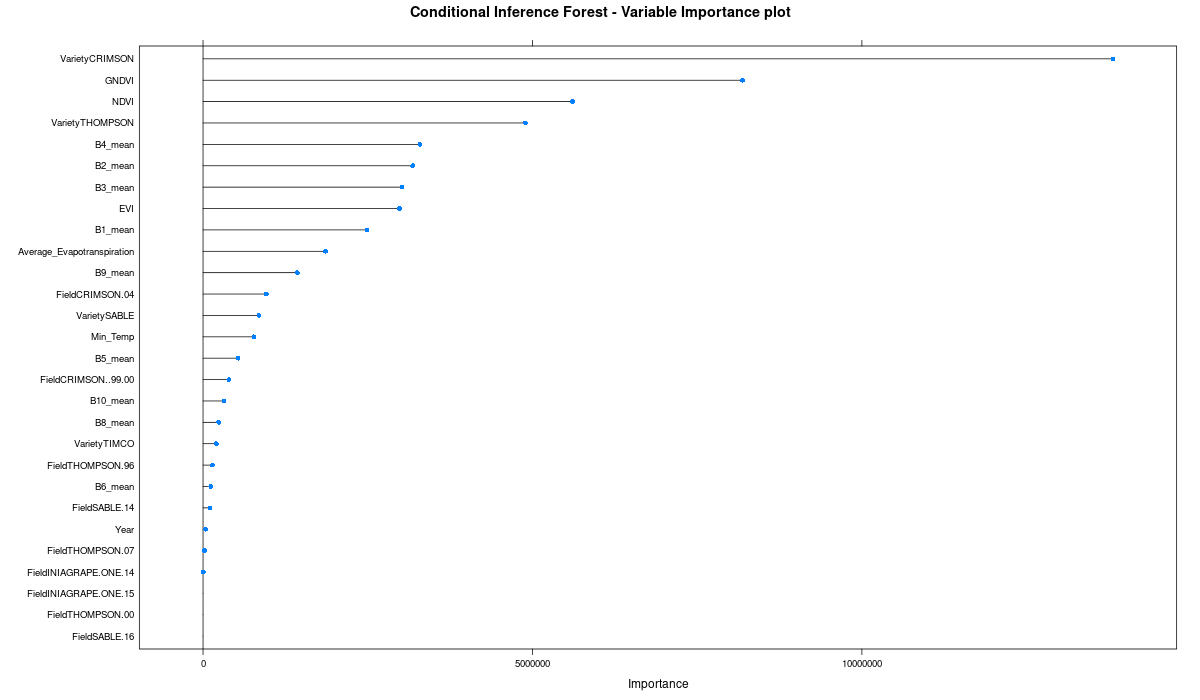
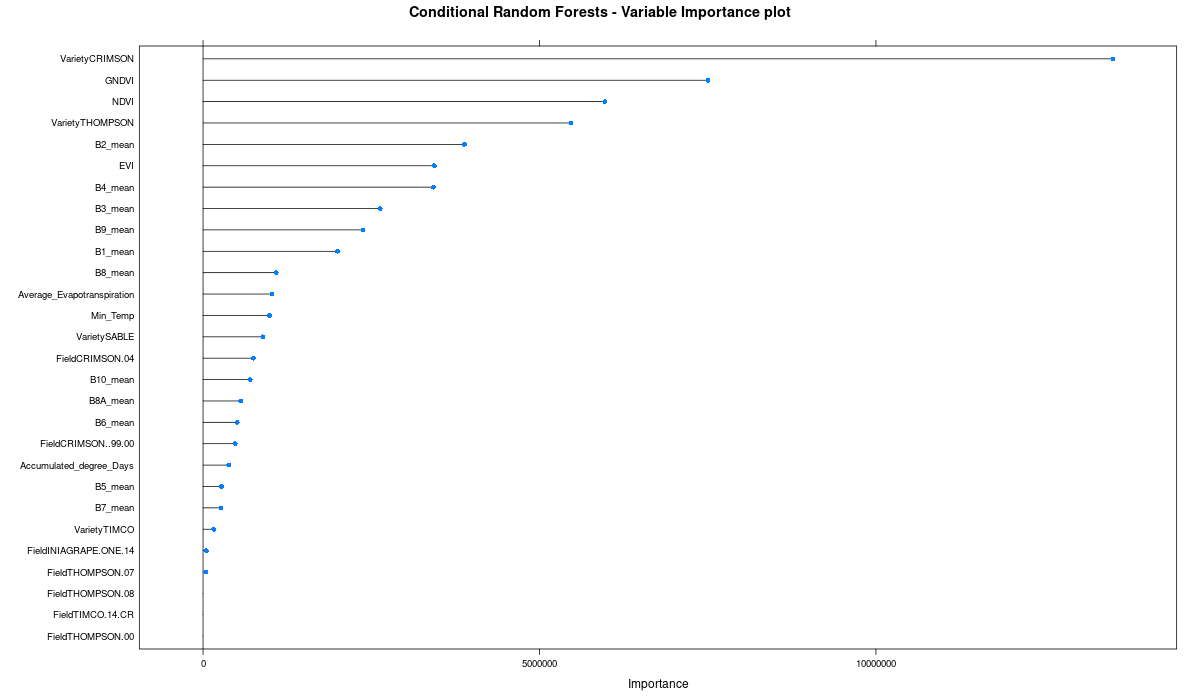
Update

diff --git a/README.md b/README.md
@@ -121,7 +121,7 @@ Kg_He 31227.15 48233.68 34352.09 37294.73 51572.88 44684.72
 ![RMS vs Ramdom Predictors Random Forest model](https://github.com/diegoalarc/Innovation_laboratory_EAGLE/blob/main/Plots/RMSE_vs_Ramdom_Predictors_rforest.png?raw=true "RMS vs Ramdom Predictors Random Forest model")
 
 
-Conditional Inference Forest hyperparameters:
+Conditional Random Forests hyperparameters:
 ```r
 44 samples
 41 predictors
@@ -171,7 +171,7 @@ Something important when looking at the generated model, is variable importance,
 - Random Forest model:
 ![Variable importance ML model](https://github.com/diegoalarc/Innovation_laboratory_EAGLE/blob/main/Plots/Variable_Importance_rforest_ggplo2.png?raw=true "Variable importance ML model")
 
-- Conditional Inference Forest model:
+- Conditional Random Forests model:
 ![Variable importance ML model](https://github.com/diegoalarc/Innovation_laboratory_EAGLE/blob/main/Plots/Variable_Importance_cforest_ggplo2.png?raw=true "Variable importance ML model")
 
 #### We have also calculate Feature Importance for each Variable vs Dropout Loss.
@@ -179,7 +179,7 @@ Something important when looking at the generated model, is variable importance,
 - Random Forest model:
 ![Variable importance boxplot ML model](https://github.com/diegoalarc/Innovation_laboratory_EAGLE/blob/main/Plots/Variable_Importance_boxplot_rforest_ggplo2.png?raw=true "Variable importance boxplot ML model")
 
-- Conditional Inference Forest model:
+- Conditional Random Forests model:
 ![Variable importance boxplot ML model](https://github.com/diegoalarc/Innovation_laboratory_EAGLE/blob/main/Plots/Variable_Importance_boxplot_crforest_ggplo2.png?raw=true "Variable importance boxplot ML model")
 
 #### We have also calculate Feature Importance by each year used in the model.
@@ -187,7 +187,7 @@ Something important when looking at the generated model, is variable importance,
 - Random Forest model:
 ![Variable importance boxplot ML model by year](https://github.com/diegoalarc/Innovation_laboratory_EAGLE/blob/main/Plots/Variable_Importance_boxplot_rforest_by_year_ggplo2.png?raw=true "Variable importance boxplot ML model by year")
 
-- Conditional Inference Forest model:
+- Conditional Random Forests model:
 ![Variable importance boxplot ML model by year](https://github.com/diegoalarc/Innovation_laboratory_EAGLE/blob/main/Plots/Variable_Importance_boxplot_crforest_by_year_ggplo2.png?raw=true "Variable importance boxplot ML model by year")
 
 ### Values of R2, RMSE & MAE
@@ -199,7 +199,7 @@ These are the values with the best performance, after the auto-selection of the 
 | :-------: | :------: | :-----: |
 | 0.9469607 | 3034.6863584 | 2311.3509723 |
 
-- Conditional Inference Forest model:
+- Conditional Random Forests model:
 
 | `R2` | `RMSE Kg` | `MAE Kg` |
 | :-------: | :------: | :-----: |
@@ -239,7 +239,7 @@ Finally the predictions obtained for each model are as follows.
 | SABLE	| SABLE 14	| 2021	| 4.2	| 36598.9735786702 |
 | SABLE	| SABLE 16	| 2021	| 1.9	| 40690.0046396989 |
 
-### Conditional Inference Forest model:
+### Conditional Random Forests model:
 
 | `Variety`	| `Field`	| `Year`	| `Area_He`	| `Kg_He` |
 | :-------: | :---------: | :---: | :---: | :--------------: |
